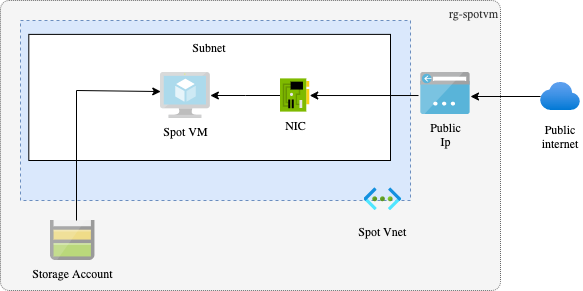
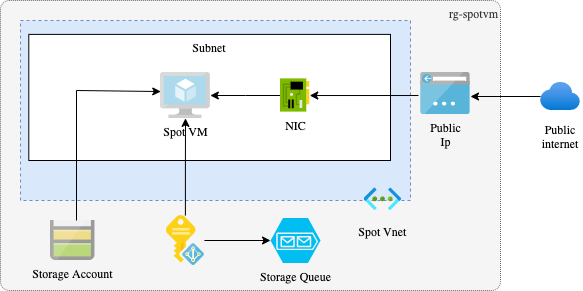
include the identity details and update the diagram

Changed region(s): [[0.3705, 0.7423, 0.5866, 0.9897], [0.2779, 0.5876, 0.3705, 0.9278], [0.3087, 0.4021, 0.3396, 0.433]]

diff --git a/README.md b/README.md
@@ -116,12 +116,13 @@ Following the steps below will result in the creation of the following Azure res
 | Object                                    | Purpose                                                                                                                                                                                                                                                                          |
 |-------------------------------------------|----------------------------------------------------------------------------------------------------------------------------------------------------------------------------------------------------------------------------------------------------------------------------------|
 | A Resource Group                          | Contains all of your organization's related networking, and copmute resources.                                                                                                                                                                                                   |
-| A single Azure Spot VM instance           | Based on how flexible you can be you selected an Azure VM size, and it gets deployed so your interruptible workloads can be installed and executed from there. In this Reference Implementation we have choosen the size `Standard_D2s_v3`                                       |
+| A single Azure Spot VM instance           | Based on how flexible you can be you selected an Azure VM size, and it gets deployed so your interruptible workloads can be installed and executed from there. In this Reference Implementation, it's been choosen the size `Standard_D2s_v3` and the vm is assigned with System Managed Identity to give it Azure RBAC permissions as Storage Queue Consumer |
 | A Virtual Network                         | The private Virtual Network that provides with connectivity over internet to the Azure VM so it can be accessed. For more information, please take a look at [Virtual networks and virtual machines in Azure](https://docs.microsoft.com/azure/virtual-network/network-overview). For VNET enabled VMs like this, the [Azure Scheduled Events] Metadata Service is available from a static nonroutable IP. |
 | A Network Card Interface                  | The must have NIC that will allow the interconnection between a virtual machine and a virtual network subnet.                                                                                                                                                                    |
 | A Subnet                                  | The subnet that the VM is assigned thought its NIC. The subnet allows the NIC to be assigned with a private IP address within the configured network adrress prefix.                                                                                                             |
 | A Public IP address                       | The public IP address that allows to communicate with the Azure Spot VM outside the Virtual Network. It means over internet (i.e. from your computer) or within the Azure backbone from other Azure resources.                                                                   |
 | A Storage Account (diagnostics)           | The Azure Storage Account that stores the Azure Spot VM boot diagnostics telemetry.  |
+| A Storage Account (queue)                 | The Azure Storage Account that is  employed to enqueue messages that will be later consumed by the interruptible workload.  |
 
 ![Depict the Azure Spot VM infrastructure diagram after deployment](./spot-deploymentdiagram.png)
 
